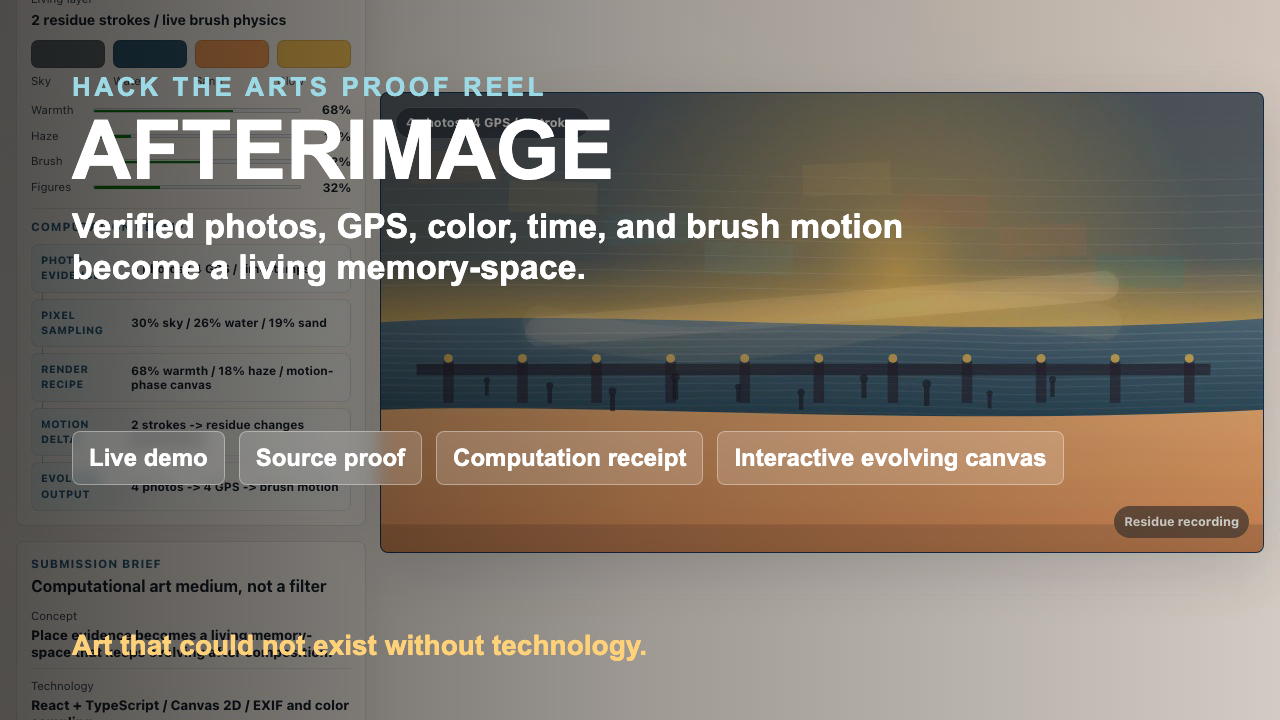
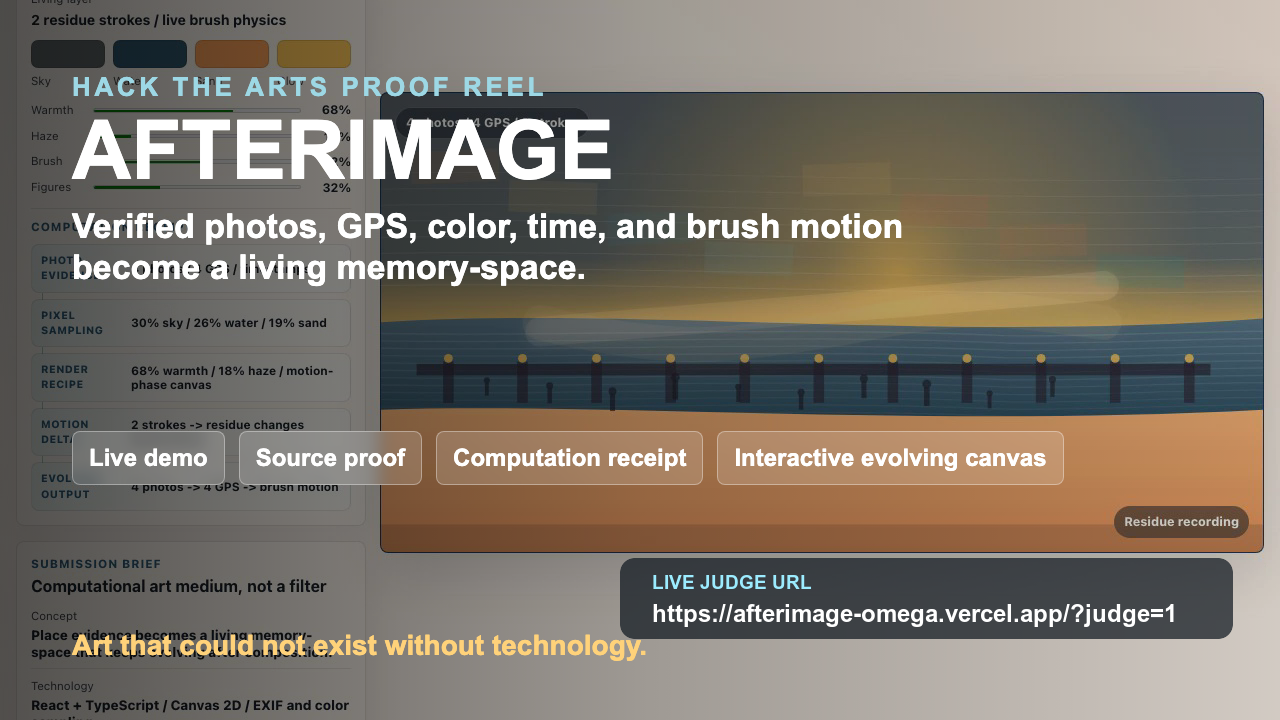
fix: show judge url in proof reel

Changed region(s): [[0.4688, 0.7639, 0.9688, 0.8861]]

diff --git a/src/components/SubmissionPanel.tsx b/src/components/SubmissionPanel.tsx
@@ -73,6 +73,7 @@ const DEMO_SCRIPT = `0:00 Run judge demo.
 const PROOF_REEL_BRIEF = `Sub-50-second proof reel:
 Hosted proof reel: ${PROOF_REEL_PUBLIC_URL}
 Record the deployed judge path: ${LIVE_DEMO_URL}
+Title card: the live judge URL is visible on the opening frame (${LIVE_DEMO_URL}).
 Opening frame: the Santa Cruz Afterimage exhibit is already alive, with the live URL visible.
 Guided reveal: scrub source evidence, extracted signals, and Leave an afterimage on the living canvas before skipping into the proof dashboard.
 Interaction proof: show cursor drag, computation receipt, evolving canvas, export, and source proof.
@@ -89,7 +90,7 @@ const SUBMISSION_MEDIA_KIT = `Cover screenshot: Exhibit mode with the final Sant
 Proof screenshot: Computation receipt plus Live medium proof visible in the judge path.
 Source screenshot: Devpost requirements, live demo URL, source repository, and MCP launch plan visible in the Source tab.
 Artifact: exported afterimage-santa-cruz-memory-space.png with title, evidence, computation note, and motion delta.
-Video: sub-50-second proof reel following the Script tab brief, with live URL, cursor input, computation receipt, Exhibit mode, evolving canvas, export, and source proof visible.`
+Video: sub-50-second proof reel with a URL-visible title card, cursor input, computation receipt, Exhibit mode, evolving canvas, export, and source proof visible.`
 
 const ATTRIBUTION_BLOCK = `Demo photos: procedural generated assets in public/demo/santa-cruz-demo-photos.
 Libraries: React, TypeScript, Canvas 2D, exifr, lucide-react.
@@ -190,6 +191,7 @@ const proofReelLines = [
   'Sub-50-second proof reel: hosted public video asset for Devpost judges.',
   `Open hosted proof reel: ${PROOF_REEL_PUBLIC_URL}`,
   `Record the deployed judge path: ${LIVE_DEMO_URL}`,
+  `Title card shows the live judge URL: ${LIVE_DEMO_URL}`,
   'Opening frame: Santa Cruz Afterimage is already alive with the live URL visible.',
   'Guided reveal: scrub source evidence, extracted signals, and Leave an afterimage before the proof dashboard.',
   'Show cursor drag, computation receipt, evolving canvas, export, and source proof.',
@@ -202,7 +204,7 @@ const mediaKitLines = [
   'Proof screenshot: Computation receipt plus Live medium proof visible in the judge path.',
   'Source screenshot: Devpost requirements, live demo URL, source repository, and MCP launch plan visible in the Source tab.',
   'Artifact: exported afterimage-santa-cruz-memory-space.png with title, evidence, computation note, and motion delta.',
-  'Video: sub-50-second proof reel with live URL, cursor input, computation receipt, Exhibit mode, evolving canvas, export, and source proof visible.',
+  'Video: sub-50-second proof reel with a URL-visible title card, cursor input, computation receipt, Exhibit mode, evolving canvas, export, and source proof visible.',
 ]
 
 const attributionLines = [

diff --git a/tests/app.spec.ts b/tests/app.spec.ts
@@ -81,6 +81,7 @@ test('submission panel offers a copyable demo recording script', async ({ page }
   await expect(proofReel).toContainText(/Sub-50-second proof reel/i)
   await expect(proofReel).toContainText(/Hosted proof reel/i)
   await expect(proofReel).toContainText(/Record the deployed judge path/i)
+  await expect(proofReel).toContainText(/Title card shows the live judge URL/i)
   await expect(proofReel).toContainText(/Leave an afterimage/i)
   await expect(proofReel).toContainText(/https:\/\/afterimage-omega\.vercel\.app\/\?judge=1/i)
   await expect(proofReel.locator('video')).toHaveAttribute('src', proofReelPath)
@@ -101,6 +102,7 @@ test('submission panel offers a copyable demo recording script', async ({ page }
   await expect(mediaKit).toContainText(/Source screenshot/i)
   await expect(mediaKit).toContainText(/motion delta/i)
   await expect(mediaKit).toContainText(/sub-50-second proof reel/i)
+  await expect(mediaKit).toContainText(/URL-visible title card/i)
   await page.getByRole('button', { name: /copy media kit/i }).click()
   await expect(mediaKit).toContainText(/Media kit copied/i)
 })

diff --git a/README.md b/README.md
@@ -23,7 +23,7 @@ The current build is a demo-first Santa Cruz Beach Boardwalk / Main Beach experi
 - MCP launch plan for GitHub source verification, Vercel deployment, demo-video, and Devpost submission ops.
 - Copyable live demo URL for the production judge path at `https://afterimage-omega.vercel.app/?judge=1`.
 - Always-visible judge evidence strip for live demo, proof reel, source, and Devpost copy.
-- Hosted proof reel video at `https://afterimage-omega.vercel.app/submission/afterimage-proof-reel.webm` with a nonblank poster/title card at `/submission/afterimage-proof-reel-poster.png`.
+- Hosted proof reel video at `https://afterimage-omega.vercel.app/submission/afterimage-proof-reel.webm` with a nonblank, URL-visible poster/title card at `/submission/afterimage-proof-reel-poster.png`.
 - Copyable judge link that turns the current deployment origin into `/?judge=1`.
 - Skippable Guided reveal on the judge path that shows source photos, extracted signals, and a first-viewport Leave an afterimage gesture on the living Canvas before the dashboard.
 - Desktop judge layout keeps the living artwork in frame while reviewers scan the submission pack.
@@ -85,7 +85,7 @@ Live medium proof:
 
 Demo link: Use `https://afterimage-omega.vercel.app/?judge=1` to open directly on the final Santa Cruz Afterimage exhibit.
 
-Proof reel: Use `https://afterimage-omega.vercel.app/submission/afterimage-proof-reel.webm` for the hosted proof reel with a nonblank title-card opening, or record a fresh walkthrough from `https://afterimage-omega.vercel.app/?judge=1`. Show cursor drag, computation receipt, Exhibit mode, evolving canvas, PNG export, live demo URL, public source URL, attribution, and Devpost copy in one continuous walkthrough.
+Proof reel: Use `https://afterimage-omega.vercel.app/submission/afterimage-proof-reel.webm` for the hosted proof reel with a nonblank title-card opening that visibly shows `https://afterimage-omega.vercel.app/?judge=1`, or record a fresh walkthrough from the same judge URL. Show cursor drag, computation receipt, Exhibit mode, evolving canvas, PNG export, live demo URL, public source URL, attribution, and Devpost copy in one continuous walkthrough.
 
 Source handoff: Devpost source URL is `https://github.com/rushtanu14/afterimage`. Public repo history from `1f2e060` onward preserves the July 1 to August 1, 2026 build window. The repo includes `src/`, `public/demo/`, `scripts/`, `tests/`, `README.md`, `package.json`, `package-lock.json`, and the Vite/TypeScript/Vitest/Playwright config files. It excludes `node_modules`, `dist`, and local screenshots. Run `npm run test`, `npm run build`, `npm run test:e2e`, and `npm audit --json` before submitting.
 
@@ -135,7 +135,7 @@ Prize fit:
 - Record the deployed judge path: `https://afterimage-omega.vercel.app/?judge=1`.
 - Hosted asset: `https://afterimage-omega.vercel.app/submission/afterimage-proof-reel.webm`.
 - Poster/title card: `https://afterimage-omega.vercel.app/submission/afterimage-proof-reel-poster.png`.
-- Opening frame: the Santa Cruz Afterimage exhibit is already alive, with the live URL visible.
+- Opening frame: the Santa Cruz Afterimage exhibit is already alive, with `https://afterimage-omega.vercel.app/?judge=1` visible on the title card.
 - Guided reveal: scrub source evidence, extracted signals, and Leave an afterimage before skipping into the proof dashboard.
 - Interaction proof: show cursor drag, computation receipt, evolving canvas, export, and source proof.
 - 0:00 Open the live judge path and name the project.
@@ -153,7 +153,7 @@ Prize fit:
 - Proof screenshot: Computation receipt plus Live medium proof visible in the judge path.
 - Source screenshot: Devpost requirements, live demo URL, source repository, and MCP launch plan visible in the Source tab.
 - Artifact: exported `afterimage-santa-cruz-memory-space.png` with title, evidence, computation note, and motion delta.
-- Video: hosted proof reel with title-card opening, live URL, cursor input, computation receipt, Exhibit mode, evolving canvas, export, and source proof visible.
+- Video: hosted proof reel with URL-visible title-card opening, cursor input, computation receipt, Exhibit mode, evolving canvas, export, and source proof visible.
 
 ## Run
 

diff --git a/docs/RUNBOOK.md b/docs/RUNBOOK.md
@@ -33,8 +33,8 @@ Generated from app routes and test coverage.
 | Computation receipt | Transformation Engine shows photo evidence, pixel sampling, render recipe, motion delta, and evolving output. |
 | Judge evidence strip | Submission panel shows live demo, proof reel, source, and Devpost copy proof before the tabbed details. |
 | Proof reel brief | Script tab gives a copyable sub-50-second recording brief with Guided reveal, Leave an afterimage, live URL, cursor input, computation receipt, Exhibit mode, evolving canvas, export, and source proof. |
-| Hosted proof reel | `/submission/afterimage-proof-reel.webm` returns `video/webm`, opens with a nonblank title card, and plays as the public proof-reel asset. |
-| Proof reel poster | `/submission/afterimage-proof-reel-poster.png` returns `image/png` and gives Devpost a nonblank thumbnail/title-card fallback. |
+| Hosted proof reel | `/submission/afterimage-proof-reel.webm` returns `video/webm`, opens with a nonblank title card that shows the live judge URL, and plays as the public proof-reel asset. |
+| Proof reel poster | `/submission/afterimage-proof-reel-poster.png` returns `image/png` and gives Devpost a nonblank, URL-visible thumbnail/title-card fallback. |
 | Browser console | No warnings or errors during the judge path. |
 | Layout overflow | `document.documentElement.scrollWidth - window.innerWidth` is `0` or within 1px. |
 | Export | `Save memory-space PNG` downloads `afterimage-santa-cruz-memory-space.png` with title, evidence, computation note, and motion delta. |